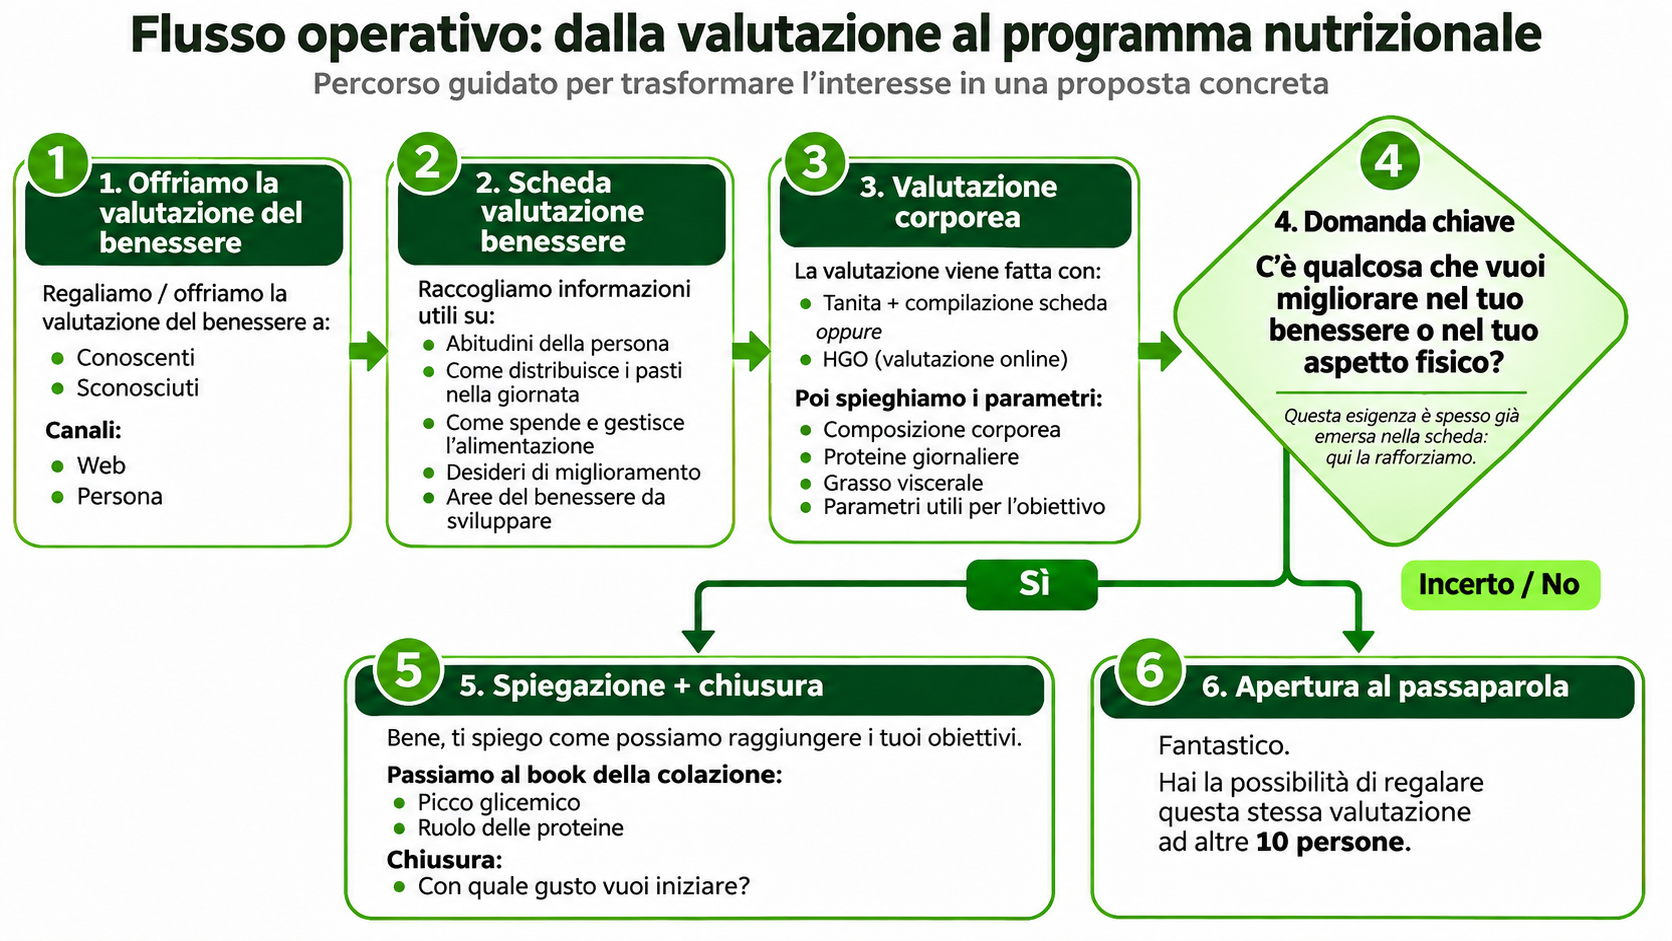
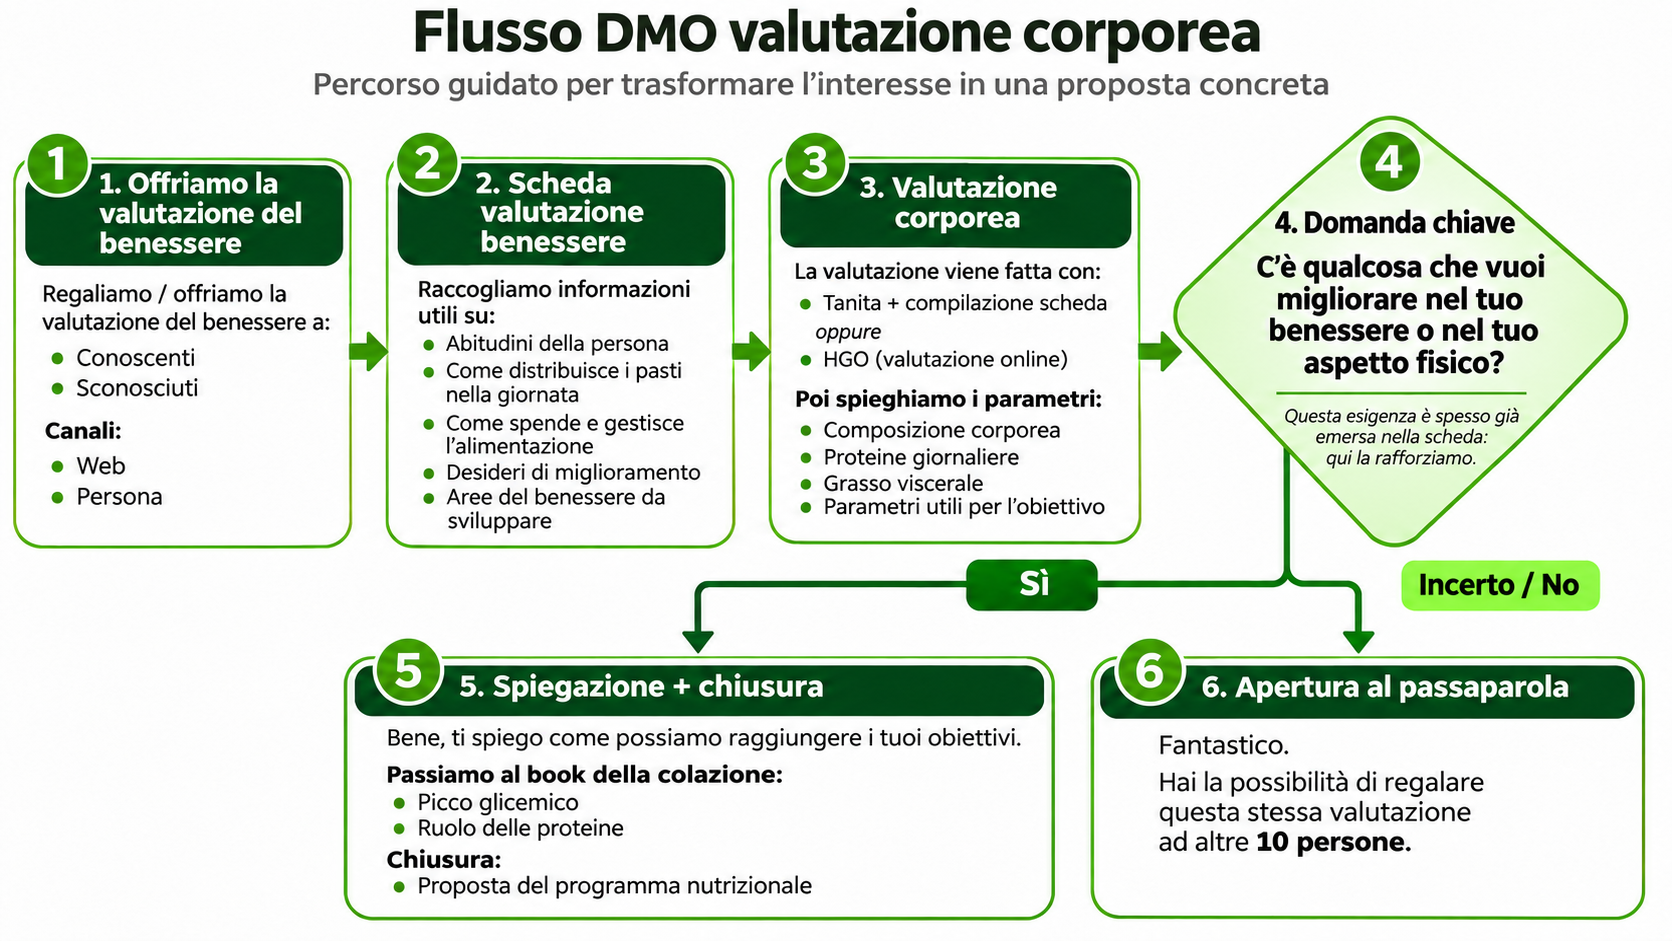
Replace body assessment workflow with the updated supplied image

diff --git a/data.js b/data.js
@@ -208,7 +208,7 @@ window.SUPPORTO_DATA = {
       "action": "Apri il Book Colazione 3.0. Stampa la scheda valutazione benessere + scheda Tanita e compilala durante la valutazione. Il video formativo è in preparazione.",
       "next": "DMO Usa Indossa Parla",
       "pendingVideo": true,
-      "workflowImage": { "src": "assets/flusso-valutazione-corporea.webp", "alt": "Flusso operativo della DMO: offerta della valutazione, raccolta delle informazioni, valutazione corporea, domanda chiave, proposta e passaparola.", "width": 1672, "height": 941 },
+      "workflowImage": { "src": "assets/flusso-valutazione-corporea.webp?v=9801c032", "alt": "Flusso operativo della DMO: offerta della valutazione, raccolta delle informazioni, valutazione corporea, domanda chiave, proposta e passaparola.", "width": 1672, "height": 941 },
       "links": [
         {
           "label": "Apri Book Colazione 3.0",

diff --git a/index.html b/index.html
@@ -397,7 +397,7 @@ window.SUPPORTO_DATA = {
       "action": "Apri il Book Colazione 3.0. Stampa la scheda valutazione benessere + scheda Tanita e compilala durante la valutazione. Il video formativo è in preparazione.",
       "next": "DMO Usa Indossa Parla",
       "pendingVideo": true,
-      "workflowImage": { "src": "assets/flusso-valutazione-corporea.webp", "alt": "Flusso operativo della DMO: offerta della valutazione, raccolta delle informazioni, valutazione corporea, domanda chiave, proposta e passaparola.", "width": 1672, "height": 941 },
+      "workflowImage": { "src": "assets/flusso-valutazione-corporea.webp?v=9801c032", "alt": "Flusso operativo della DMO: offerta della valutazione, raccolta delle informazioni, valutazione corporea, domanda chiave, proposta e passaparola.", "width": 1672, "height": 941 },
       "links": [
         {
           "label": "Apri Book Colazione 3.0",
